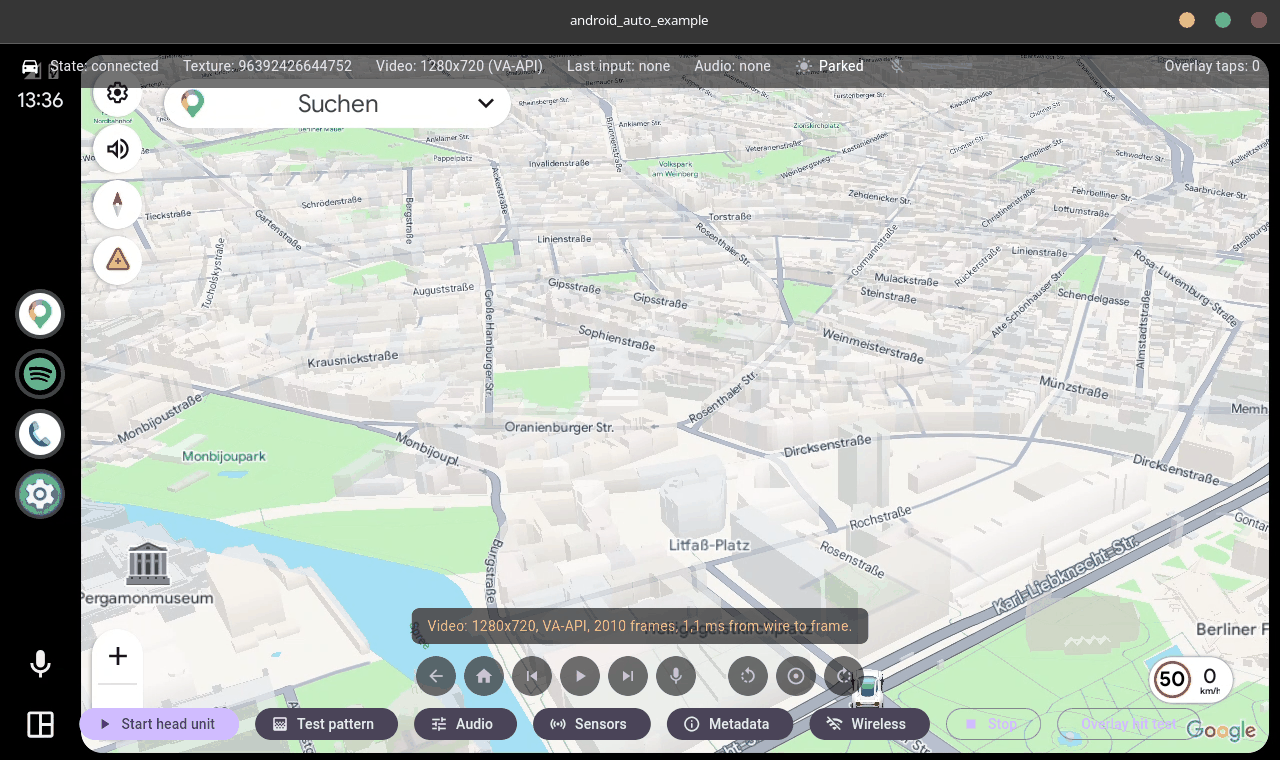
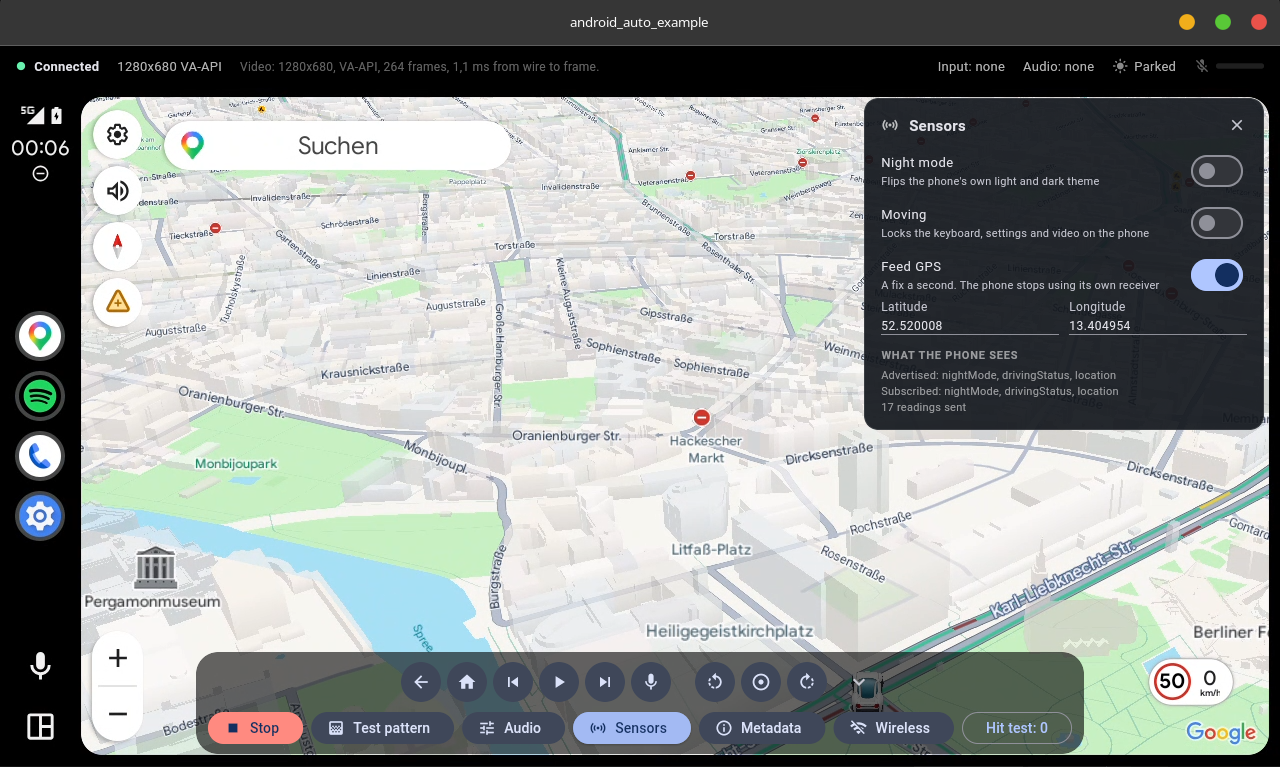
docs: readme for the pub.dev release

diff --git a/README.md b/README.md
@@ -1,5 +1,7 @@
 # Flutter Android Auto
 
+[![pub package](https://img.shields.io/pub/v/android_auto.svg)](https://pub.dev/packages/android_auto)
+
 A Flutter plugin that runs a real Android Auto head unit **inside** a Flutter app.
 
 The projected phone screen is rendered into a Flutter `Texture`, so the host app can
@@ -11,20 +13,21 @@ tested on x86_64 with ARM64 built in CI and not yet run on a device, and the pac
 layout is federated so an Android implementation can be added without touching the app
 facing API.
 
-![A Pixel projecting Google Maps into a Flutter texture, with the example app's own
-status line and controls drawn over it](docs/images/example-projecting.png)
+![A Pixel projecting Google Maps into a Flutter texture, under the example app's own
+status bar and with its controls and a panel drawn over it](docs/images/example-projecting.png)
 
-*A phone projecting over USB, decoded on VA-API into a Flutter `Texture`. Everything
-over the map, the status line at the top, the transport controls and the buttons, is
-ordinary Flutter drawn on top of it. The position is the example app's fixed test fix,
-not a real one.*
+*A phone projecting over USB, decoded on VA-API into a Flutter `Texture`. The status bar
+at the top is the example app's own, and the phone has laid itself out for the space
+left below it. The dock of keys and buttons along the bottom and the sensor panel are
+ordinary Flutter drawn on top of the projection. The position is the example app's
+fixed test fix, not a real one.*
 
-> **Status: working, not yet released.** A phone projects over USB and over Wi-Fi,
-> with video, touch and key input, three audio streams, the microphone, car sensors,
-> and the metadata channels that let the head unit draw its own turn card and now
-> playing bar. Nothing is published to pub.dev yet, ARM64 has been built but never run
-> on a device, and only one phone model has been tested. See
-> [What works](#what-works) for the detail.
+> **Status: released, early.** Published on pub.dev as
+> [`android_auto`](https://pub.dev/packages/android_auto). A phone projects over USB and
+> over Wi-Fi, with video, touch and key input, three audio streams, the microphone, car
+> sensors, and the metadata channels that let the head unit draw its own turn card and
+> now playing bar. ARM64 has been built but never run on a device, and only one phone
+> model has been tested. See [What works](#what-works) for the detail.
 
 ## Usage
 
@@ -62,8 +65,11 @@ the three audio streams' volume and mute, and `navigation`, `mediaPlayback`,
 `phoneStatus` and `notifications` for drawing the car's own interface rather than
 mirroring the phone's pixels.
 
-The example app under `example/` exercises all of it and is the best documentation in
-the repository.
+The example app under [`example/`](example/) is the reference integration: one
+controller, one view, a status bar, the hardware keys, and the turn card and now playing
+bar drawn from metadata, with test bench panels for every other part of the API. It is
+the best documentation in the repository, and [its README](example/README.md) says which
+file to read first.
 
 ## What works
 
@@ -78,10 +84,10 @@ the repository.
 | Transports | USB (AOAP), and Wi-Fi with Bluetooth for the handshake |
 | Phone calls | over Bluetooth HFP, which is configuration rather than code, see [`docs/echo-cancellation.md`](docs/echo-cancellation.md) |
 
-Not there yet: no published packages, no ARM64 device tested (CI builds it, which is
-not the same thing), no Android implementation, and the notification and media browser
-channels are implemented against the schema but unverified, because the one phone tested
-never opens them.
+Not there yet: no ARM64 device tested (CI builds it, which is not the same thing), no
+Android implementation, and the notification and media browser channels are
+implemented against the schema but unverified, because the one phone tested never opens
+them.
 
 ## Repository layout
 
@@ -90,7 +96,7 @@ packages/
   android_auto                        app facing API, pure Dart
   android_auto_platform_interface     the contract, pure Dart
   android_auto_linux                  Linux implementation, links aasdk
-example/                              test bench app
+example/                              the reference integration and test bench
 docs/
   research.md                         protocol notes and library evaluation
   architecture.md                     how the pieces fit together
@@ -123,16 +129,33 @@ phone, and the project builds and runs without it. See [`dev/README.md`](dev/REA
 
 ## Getting started
 
-Nothing is on pub.dev yet, so depend on it from a checkout:
-
-```yaml
-dependencies:
-  android_auto:
-    path: ../flutter_android_auto/packages/android_auto
+```bash
+flutter pub add android_auto
 ```
+
+That is the only package to name.
+[`android_auto_linux`](https://pub.dev/packages/android_auto_linux) is endorsed by it
+and comes along on its own, and
+[`android_auto_platform_interface`](https://pub.dev/packages/android_auto_platform_interface)
+is only for writing another implementation.
 
 **Doing so makes your application GPL-3.0-or-later**, because the Linux implementation
 links aasdk. See [Licence](#licence) below before going further.
+
+The Linux implementation compiles aasdk from source as part of your app's build, so the
+machine building it needs the development packages. On Ubuntu or Debian:
+
+```bash
+sudo apt-get install cmake ninja-build pkg-config \
+  libboost-all-dev libusb-1.0-0-dev libssl-dev libprotobuf-dev protobuf-compiler \
+  libavcodec-dev libavutil-dev libswscale-dev libva-dev libpulse-dev \
+  libgtk-3-dev libegl1-mesa-dev libgles2-mesa-dev
+```
+
+A machine that only runs the built app needs the runtime libraries instead, listed in
+[`docs/packaging.md`](docs/packaging.md). Either way, a normal user can only open a phone
+in accessory mode with a udev rule; `tools/setup-dev-machine.sh --udev` in this
+repository writes one, and it is short enough to copy from there.
 
 The minimum an app needs is a controller and a view. `AndroidAutoConfig` defaults to a
 30 fps head unit whose frame size follows its view: the smallest of 800x480, 1280x720 and
@@ -142,7 +165,7 @@ others.
 Wireless is opt-in, with `transports: {AndroidAutoTransport.usb,
 AndroidAutoTransport.wireless}` and the Wi-Fi passphrase in `AndroidAutoWirelessConfig`.
 
-To build the repository itself, on Ubuntu or Debian:
+To build this repository and run the example, on Ubuntu or Debian:
 
 ```bash
 git submodule update --init --recursive

diff --git a/packages/android_auto/README.md b/packages/android_auto/README.md
@@ -42,6 +42,10 @@ space from the phone rather than covering part of it, with no black bars either 
 happens. `AndroidAutoView` maps its own touches into the projected video, letterboxing
 included, so input needs no wiring.
 
+The [example app](https://github.com/Mauznemo/FlutterAndroidAuto/tree/main/example)
+is the reference integration: a status bar, the hardware keys, and a turn card and now
+playing bar drawn from metadata, with test bench panels for the rest of the API.
+
 Left out, `width` and `height` are picked per connection: the smallest of 800x480,
 1280x720 and 1920x1080 whose picture covers the view in physical pixels, so it is never
 stretched. Set both to pin a size instead. They must then be one of 800x480, 1280x720,
@@ -69,6 +73,26 @@ head unit claims a position. Offer only what the app will actually feed.
 Linux today, through `android_auto_linux`, over USB or over Wi-Fi. Built and tested on
 x86_64; ARM64 is intended and not yet verified. The package layout is federated, so an
 Android implementation can be added without touching this API.
+
+## Setting up a Linux machine
+
+**To build** an app that uses this package, the machine needs the development packages,
+because `android_auto_linux` compiles aasdk from source as part of the app's build. On
+Ubuntu or Debian:
+
+```bash
+sudo apt-get install cmake ninja-build pkg-config \
+  libboost-all-dev libusb-1.0-0-dev libssl-dev libprotobuf-dev protobuf-compiler \
+  libavcodec-dev libavutil-dev libswscale-dev libva-dev libpulse-dev \
+  libgtk-3-dev libegl1-mesa-dev libgles2-mesa-dev
+```
+
+**To run** it, a machine that did not build it needs the runtime libraries, listed in
+[`docs/packaging.md`](https://github.com/Mauznemo/FlutterAndroidAuto/blob/main/docs/packaging.md#runtime-dependencies).
+Either way, projecting over USB as a normal user needs a udev rule, or the app can only
+open the phone as root. The build does not need it; the first connection does.
+[`tools/setup-dev-machine.sh --udev`](https://github.com/Mauznemo/FlutterAndroidAuto/blob/main/tools/setup-dev-machine.sh)
+writes one, and the rule is short enough to copy out of it.
 
 ## Licence
 
